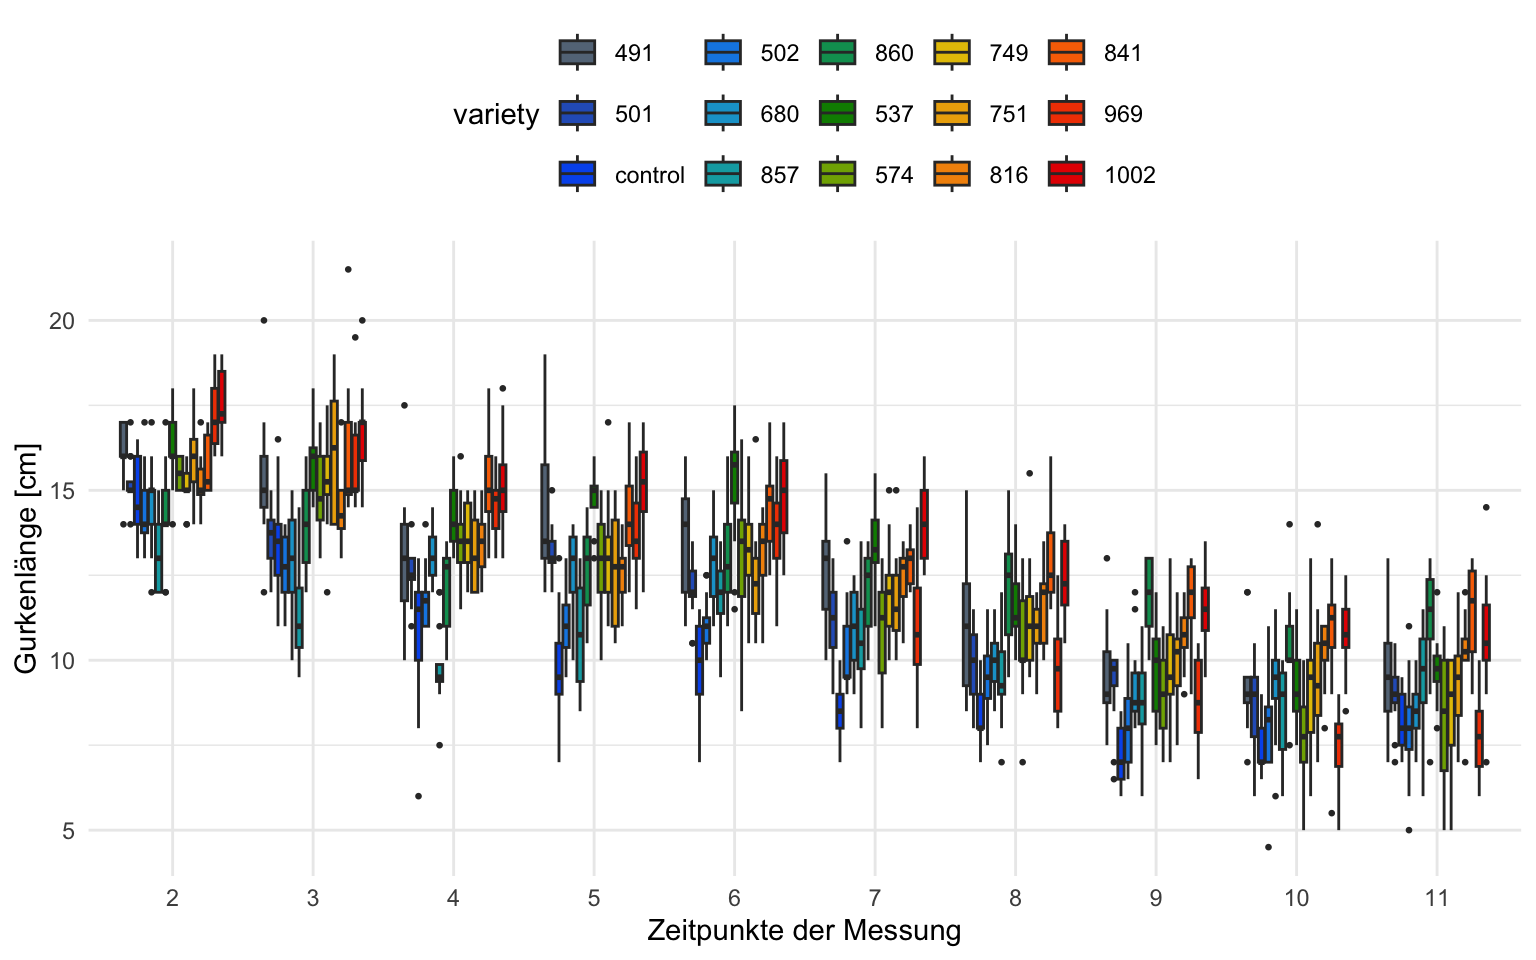
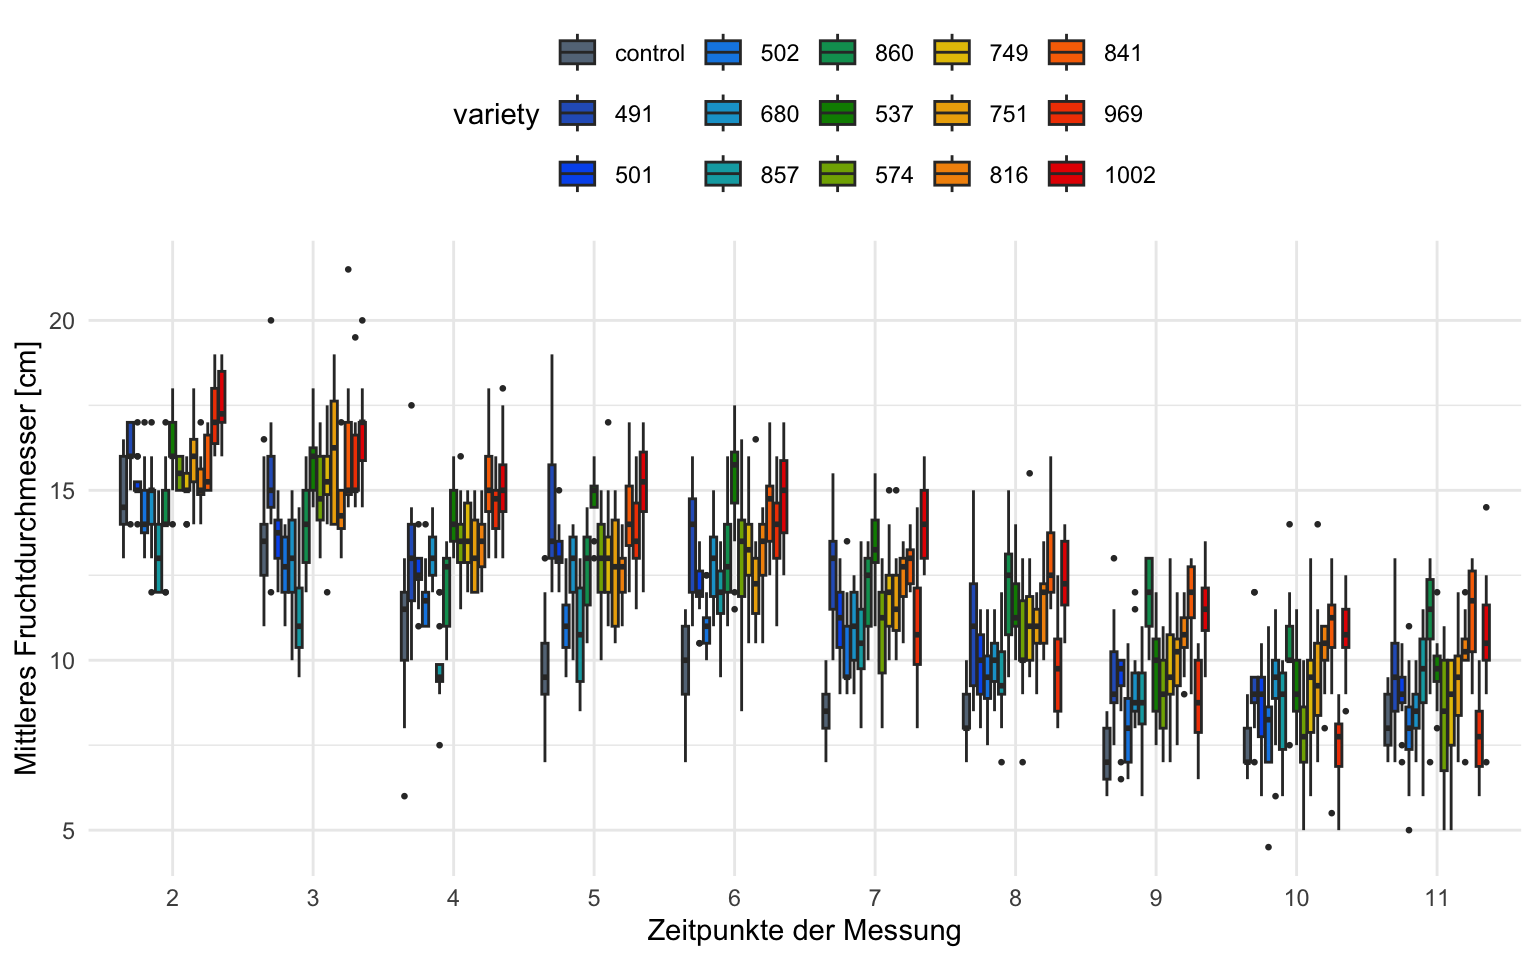
added

diff --git a/docs/construction-zone.html b/docs/construction-zone.html
@@ -874,7 +874,7 @@ window.Quarto = {
 </header>
 
 
-<p><em>Letzte Änderung am 27. April 2025 um 20:38:45</em></p>
+<p><em>Letzte Änderung am 28. April 2025 um 07:32:58</em></p>
 <div class="quarto-figure quarto-figure-center">
 <figure class="figure">
 <p><a href="images/caution.png" class="lightbox" data-gallery="quarto-lightbox-gallery-1"><img src="images/caution.png" class="img-fluid quarto-figure quarto-figure-center figure-img" style="width:100.0%"></a></p>
@@ -887,7 +887,7 @@ window.Quarto = {
 <summary>R Code [zeigen / verbergen]</summary>
 <div class="sourceCode cell-code" id="cb1"><pre class="sourceCode r code-with-copy"><code class="sourceCode r"><span id="cb1-1"><a href="#cb1-1" aria-hidden="true" tabindex="-1"></a>tomato_tbl <span class="ot">&lt;-</span> <span class="fu">read_excel</span>(<span class="st">"data/repeated_tomato.xlsx"</span>) <span class="sc">|&gt;</span> </span>
 <span id="cb1-2"><a href="#cb1-2" aria-hidden="true" tabindex="-1"></a>  <span class="fu">clean_names</span>() <span class="sc">|&gt;</span> </span>
-<span id="cb1-3"><a href="#cb1-3" aria-hidden="true" tabindex="-1"></a>  <span class="fu">mutate</span>(<span class="at">variety =</span> <span class="fu">as_factor</span>(variety),</span>
+<span id="cb1-3"><a href="#cb1-3" aria-hidden="true" tabindex="-1"></a>  <span class="fu">mutate</span>(<span class="at">variety =</span> <span class="fu">relevel</span>(<span class="fu">as_factor</span>(variety), <span class="at">ref =</span> <span class="st">"control"</span>),</span>
 <span id="cb1-4"><a href="#cb1-4" aria-hidden="true" tabindex="-1"></a>         <span class="at">time_fct =</span> <span class="fu">as_factor</span>(time))</span></code><button title="In die Zwischenablage kopieren" class="code-copy-button"><i class="bi"></i></button></pre></div>
 </details>
 </div>
@@ -900,17 +900,17 @@ window.Quarto = {
 <span id="cb2-4"><a href="#cb2-4" aria-hidden="true" tabindex="-1"></a>  <span class="fu">geom_boxplot</span>(<span class="at">outlier.size =</span> <span class="fl">0.5</span>) <span class="sc">+</span></span>
 <span id="cb2-5"><a href="#cb2-5" aria-hidden="true" tabindex="-1"></a>  <span class="fu">theme</span>(<span class="at">legend.position =</span> <span class="st">"top"</span>) <span class="sc">+</span></span>
 <span id="cb2-6"><a href="#cb2-6" aria-hidden="true" tabindex="-1"></a>  <span class="fu">scale_fill_metro</span>() <span class="sc">+</span></span>
-<span id="cb2-7"><a href="#cb2-7" aria-hidden="true" tabindex="-1"></a>  <span class="fu">labs</span>(<span class="at">x =</span> <span class="st">"Zeitpunkte der Messung"</span>, <span class="at">y =</span> <span class="st">"Gurkenlänge [cm]"</span>,</span>
+<span id="cb2-7"><a href="#cb2-7" aria-hidden="true" tabindex="-1"></a>  <span class="fu">labs</span>(<span class="at">x =</span> <span class="st">"Zeitpunkte der Messung"</span>, <span class="at">y =</span> <span class="st">"Mittleres Fruchtdurchmesser [cm]"</span>,</span>
 <span id="cb2-8"><a href="#cb2-8" aria-hidden="true" tabindex="-1"></a>       <span class="at">color =</span> <span class="st">"Sorte"</span>)</span></code><button title="In die Zwischenablage kopieren" class="code-copy-button"><i class="bi"></i></button></pre></div>
 </details>
 <div class="cell-output-display">
 <div id="fig-anwendung-tomato-01" class="quarto-float quarto-figure quarto-figure-center anchored" data-fig-align="center">
 <figure class="quarto-float quarto-float-fig figure">
 <div aria-describedby="fig-anwendung-tomato-01-caption-0ceaefa1-69ba-4598-a22c-09a6ac19f8ca">
-<a href="construction-zone_files/figure-html/fig-anwendung-tomato-01-1.png" class="lightbox" data-gallery="quarto-lightbox-gallery-2" title="Abbildung&nbsp;80.1— Scatterplot des Längenwachstums der drei Gurkensorten über vierzehn Wochen. Die gestrichtelten Linien stellen den Median und die durchgezogene Line den Mittelwert der Gruppen dar."><img src="construction-zone_files/figure-html/fig-anwendung-tomato-01-1.png" class="img-fluid quarto-figure quarto-figure-center figure-img" width="768"></a>
+<a href="construction-zone_files/figure-html/fig-anwendung-tomato-01-1.png" class="lightbox" data-gallery="quarto-lightbox-gallery-2" title="Abbildung&nbsp;80.1— Boxplot des Fruchtwachstums von fünfzehn Tomatensorten über zehn Wochen unter Trockenstress."><img src="construction-zone_files/figure-html/fig-anwendung-tomato-01-1.png" class="img-fluid quarto-figure quarto-figure-center figure-img" width="768"></a>
 </div>
 <figcaption class="quarto-float-caption-bottom quarto-float-caption quarto-float-fig" id="fig-anwendung-tomato-01-caption-0ceaefa1-69ba-4598-a22c-09a6ac19f8ca">
-Abbildung&nbsp;80.1— Scatterplot des Längenwachstums der drei Gurkensorten über vierzehn Wochen. Die gestrichtelten Linien stellen den Median und die durchgezogene Line den Mittelwert der Gruppen dar.
+Abbildung&nbsp;80.1— Boxplot des Fruchtwachstums von fünfzehn Tomatensorten über zehn Wochen unter Trockenstress.
 </figcaption>
 </figure>
 </div>
@@ -930,17 +930,17 @@ Abbildung&nbsp;80.1— Scatterplot des Längenwachstums der drei Gurkensorten ü
 <span id="cb3-9"><a href="#cb3-9" aria-hidden="true" tabindex="-1"></a>  <span class="fu">scale_color_metro</span>() <span class="sc">+</span></span>
 <span id="cb3-10"><a href="#cb3-10" aria-hidden="true" tabindex="-1"></a>  <span class="fu">theme</span>(<span class="at">legend.position =</span> <span class="st">"top"</span>) <span class="sc">+</span></span>
 <span id="cb3-11"><a href="#cb3-11" aria-hidden="true" tabindex="-1"></a>  <span class="fu">scale_x_continuous</span>(<span class="at">breaks =</span> <span class="dv">2</span><span class="sc">:</span><span class="dv">11</span>) <span class="sc">+</span></span>
-<span id="cb3-12"><a href="#cb3-12" aria-hidden="true" tabindex="-1"></a>  <span class="fu">labs</span>(<span class="at">x =</span> <span class="st">"Zeitpunkte der Messung"</span>, <span class="at">y =</span> <span class="st">"Gurkenlänge [cm]"</span>,</span>
+<span id="cb3-12"><a href="#cb3-12" aria-hidden="true" tabindex="-1"></a>  <span class="fu">labs</span>(<span class="at">x =</span> <span class="st">"Zeitpunkte der Messung"</span>, <span class="at">y =</span> <span class="st">"Mittleres Fruchtdurchmesser [cm]"</span>,</span>
 <span id="cb3-13"><a href="#cb3-13" aria-hidden="true" tabindex="-1"></a>       <span class="at">color =</span> <span class="st">"Sorte"</span>)</span></code><button title="In die Zwischenablage kopieren" class="code-copy-button"><i class="bi"></i></button></pre></div>
 </details>
 <div class="cell-output-display">
 <div id="fig-anwendung-tomato-02" class="quarto-float quarto-figure quarto-figure-center anchored" data-fig-align="center">
 <figure class="quarto-float quarto-float-fig figure">
 <div aria-describedby="fig-anwendung-tomato-02-caption-0ceaefa1-69ba-4598-a22c-09a6ac19f8ca">
-<a href="construction-zone_files/figure-html/fig-anwendung-tomato-02-1.png" class="lightbox" data-gallery="quarto-lightbox-gallery-3" title="Abbildung&nbsp;80.2— Scatterplot des Längenwachstums der drei Gurkensorten über vierzehn Wochen. Die gestrichtelten Linien stellen den Median und die durchgezogene Line den Mittelwert der Gruppen dar."><img src="construction-zone_files/figure-html/fig-anwendung-tomato-02-1.png" class="img-fluid quarto-figure quarto-figure-center figure-img" width="768"></a>
+<a href="construction-zone_files/figure-html/fig-anwendung-tomato-02-1.png" class="lightbox" data-gallery="quarto-lightbox-gallery-3" title="Abbildung&nbsp;80.2— Das Fruchtwachstum von fünfzehn Tomatensorten über zehn Wochen unter Trockenstress."><img src="construction-zone_files/figure-html/fig-anwendung-tomato-02-1.png" class="img-fluid quarto-figure quarto-figure-center figure-img" width="768"></a>
 </div>
 <figcaption class="quarto-float-caption-bottom quarto-float-caption quarto-float-fig" id="fig-anwendung-tomato-02-caption-0ceaefa1-69ba-4598-a22c-09a6ac19f8ca">
-Abbildung&nbsp;80.2— Scatterplot des Längenwachstums der drei Gurkensorten über vierzehn Wochen. Die gestrichtelten Linien stellen den Median und die durchgezogene Line den Mittelwert der Gruppen dar.
+Abbildung&nbsp;80.2— Das Fruchtwachstum von fünfzehn Tomatensorten über zehn Wochen unter Trockenstress.
 </figcaption>
 </figure>
 </div>
@@ -1894,7 +1894,7 @@ window.document.addEventListener("DOMContentLoaded", function (event) {
 <span id="cb32-25"><a href="#cb32-25" aria-hidden="true" tabindex="-1"></a><span class="in">```{r}</span></span>
 <span id="cb32-26"><a href="#cb32-26" aria-hidden="true" tabindex="-1"></a>tomato_tbl <span class="ot">&lt;-</span> <span class="fu">read_excel</span>(<span class="st">"data/repeated_tomato.xlsx"</span>) <span class="sc">|&gt;</span> </span>
 <span id="cb32-27"><a href="#cb32-27" aria-hidden="true" tabindex="-1"></a>  <span class="fu">clean_names</span>() <span class="sc">|&gt;</span> </span>
-<span id="cb32-28"><a href="#cb32-28" aria-hidden="true" tabindex="-1"></a>  <span class="fu">mutate</span>(<span class="at">variety =</span> <span class="fu">as_factor</span>(variety),</span>
+<span id="cb32-28"><a href="#cb32-28" aria-hidden="true" tabindex="-1"></a>  <span class="fu">mutate</span>(<span class="at">variety =</span> <span class="fu">relevel</span>(<span class="fu">as_factor</span>(variety), <span class="at">ref =</span> <span class="st">"control"</span>),</span>
 <span id="cb32-29"><a href="#cb32-29" aria-hidden="true" tabindex="-1"></a>         <span class="at">time_fct =</span> <span class="fu">as_factor</span>(time))</span>
 <span id="cb32-30"><a href="#cb32-30" aria-hidden="true" tabindex="-1"></a><span class="in">```</span></span>
 <span id="cb32-31"><a href="#cb32-31" aria-hidden="true" tabindex="-1"></a></span>
@@ -1906,7 +1906,7 @@ window.document.addEventListener("DOMContentLoaded", function (event) {
 <span id="cb32-39"><a href="#cb32-39" aria-hidden="true" tabindex="-1"></a><span class="co">#| fig-align: center</span></span>
 <span id="cb32-40"><a href="#cb32-40" aria-hidden="true" tabindex="-1"></a><span class="co">#| fig-height: 5</span></span>
 <span id="cb32-41"><a href="#cb32-41" aria-hidden="true" tabindex="-1"></a><span class="co">#| fig-width: 8</span></span>
-<span id="cb32-42"><a href="#cb32-42" aria-hidden="true" tabindex="-1"></a><span class="co">#| fig-cap: "Scatterplot des Längenwachstums der drei Gurkensorten über vierzehn Wochen. Die gestrichtelten Linien stellen den Median und die durchgezogene Line den Mittelwert der Gruppen dar."</span></span>
+<span id="cb32-42"><a href="#cb32-42" aria-hidden="true" tabindex="-1"></a><span class="co">#| fig-cap: "Boxplot des Fruchtwachstums von fünfzehn Tomatensorten über zehn Wochen unter Trockenstress."</span></span>
 <span id="cb32-43"><a href="#cb32-43" aria-hidden="true" tabindex="-1"></a></span>
 <span id="cb32-44"><a href="#cb32-44" aria-hidden="true" tabindex="-1"></a><span class="fu">ggplot</span>(tomato_tbl, </span>
 <span id="cb32-45"><a href="#cb32-45" aria-hidden="true" tabindex="-1"></a>       <span class="fu">aes</span>(time_fct, diameter, <span class="at">fill =</span> variety)) <span class="sc">+</span></span>
@@ -1914,7 +1914,7 @@ window.document.addEventListener("DOMContentLoaded", function (event) {
 <span id="cb32-47"><a href="#cb32-47" aria-hidden="true" tabindex="-1"></a>  <span class="fu">geom_boxplot</span>(<span class="at">outlier.size =</span> <span class="fl">0.5</span>) <span class="sc">+</span></span>
 <span id="cb32-48"><a href="#cb32-48" aria-hidden="true" tabindex="-1"></a>  <span class="fu">theme</span>(<span class="at">legend.position =</span> <span class="st">"top"</span>) <span class="sc">+</span></span>
 <span id="cb32-49"><a href="#cb32-49" aria-hidden="true" tabindex="-1"></a>  <span class="fu">scale_fill_metro</span>() <span class="sc">+</span></span>
-<span id="cb32-50"><a href="#cb32-50" aria-hidden="true" tabindex="-1"></a>  <span class="fu">labs</span>(<span class="at">x =</span> <span class="st">"Zeitpunkte der Messung"</span>, <span class="at">y =</span> <span class="st">"Gurkenlänge [cm]"</span>,</span>
+<span id="cb32-50"><a href="#cb32-50" aria-hidden="true" tabindex="-1"></a>  <span class="fu">labs</span>(<span class="at">x =</span> <span class="st">"Zeitpunkte der Messung"</span>, <span class="at">y =</span> <span class="st">"Mittleres Fruchtdurchmesser [cm]"</span>,</span>
 <span id="cb32-51"><a href="#cb32-51" aria-hidden="true" tabindex="-1"></a>       <span class="at">color =</span> <span class="st">"Sorte"</span>)</span>
 <span id="cb32-52"><a href="#cb32-52" aria-hidden="true" tabindex="-1"></a><span class="in">```</span></span>
 <span id="cb32-53"><a href="#cb32-53" aria-hidden="true" tabindex="-1"></a></span>
@@ -1926,7 +1926,7 @@ window.document.addEventListener("DOMContentLoaded", function (event) {
 <span id="cb32-61"><a href="#cb32-61" aria-hidden="true" tabindex="-1"></a><span class="co">#| fig-align: center</span></span>
 <span id="cb32-62"><a href="#cb32-62" aria-hidden="true" tabindex="-1"></a><span class="co">#| fig-height: 5</span></span>
 <span id="cb32-63"><a href="#cb32-63" aria-hidden="true" tabindex="-1"></a><span class="co">#| fig-width: 8</span></span>
-<span id="cb32-64"><a href="#cb32-64" aria-hidden="true" tabindex="-1"></a><span class="co">#| fig-cap: "Scatterplot des Längenwachstums der drei Gurkensorten über vierzehn Wochen. Die gestrichtelten Linien stellen den Median und die durchgezogene Line den Mittelwert der Gruppen dar."</span></span>
+<span id="cb32-64"><a href="#cb32-64" aria-hidden="true" tabindex="-1"></a><span class="co">#| fig-cap: "Das Fruchtwachstum von fünfzehn Tomatensorten über zehn Wochen unter Trockenstress."</span></span>
 <span id="cb32-65"><a href="#cb32-65" aria-hidden="true" tabindex="-1"></a></span>
 <span id="cb32-66"><a href="#cb32-66" aria-hidden="true" tabindex="-1"></a><span class="fu">ggplot</span>(tomato_tbl, </span>
 <span id="cb32-67"><a href="#cb32-67" aria-hidden="true" tabindex="-1"></a>       <span class="fu">aes</span>(time, diameter, <span class="at">color =</span> variety, </span>
@@ -1939,7 +1939,7 @@ window.document.addEventListener("DOMContentLoaded", function (event) {
 <span id="cb32-74"><a href="#cb32-74" aria-hidden="true" tabindex="-1"></a>  <span class="fu">scale_color_metro</span>() <span class="sc">+</span></span>
 <span id="cb32-75"><a href="#cb32-75" aria-hidden="true" tabindex="-1"></a>  <span class="fu">theme</span>(<span class="at">legend.position =</span> <span class="st">"top"</span>) <span class="sc">+</span></span>
 <span id="cb32-76"><a href="#cb32-76" aria-hidden="true" tabindex="-1"></a>  <span class="fu">scale_x_continuous</span>(<span class="at">breaks =</span> <span class="dv">2</span><span class="sc">:</span><span class="dv">11</span>) <span class="sc">+</span></span>
-<span id="cb32-77"><a href="#cb32-77" aria-hidden="true" tabindex="-1"></a>  <span class="fu">labs</span>(<span class="at">x =</span> <span class="st">"Zeitpunkte der Messung"</span>, <span class="at">y =</span> <span class="st">"Gurkenlänge [cm]"</span>,</span>
+<span id="cb32-77"><a href="#cb32-77" aria-hidden="true" tabindex="-1"></a>  <span class="fu">labs</span>(<span class="at">x =</span> <span class="st">"Zeitpunkte der Messung"</span>, <span class="at">y =</span> <span class="st">"Mittleres Fruchtdurchmesser [cm]"</span>,</span>
 <span id="cb32-78"><a href="#cb32-78" aria-hidden="true" tabindex="-1"></a>       <span class="at">color =</span> <span class="st">"Sorte"</span>)</span>
 <span id="cb32-79"><a href="#cb32-79" aria-hidden="true" tabindex="-1"></a><span class="in">```</span></span>
 <span id="cb32-80"><a href="#cb32-80" aria-hidden="true" tabindex="-1"></a></span>
